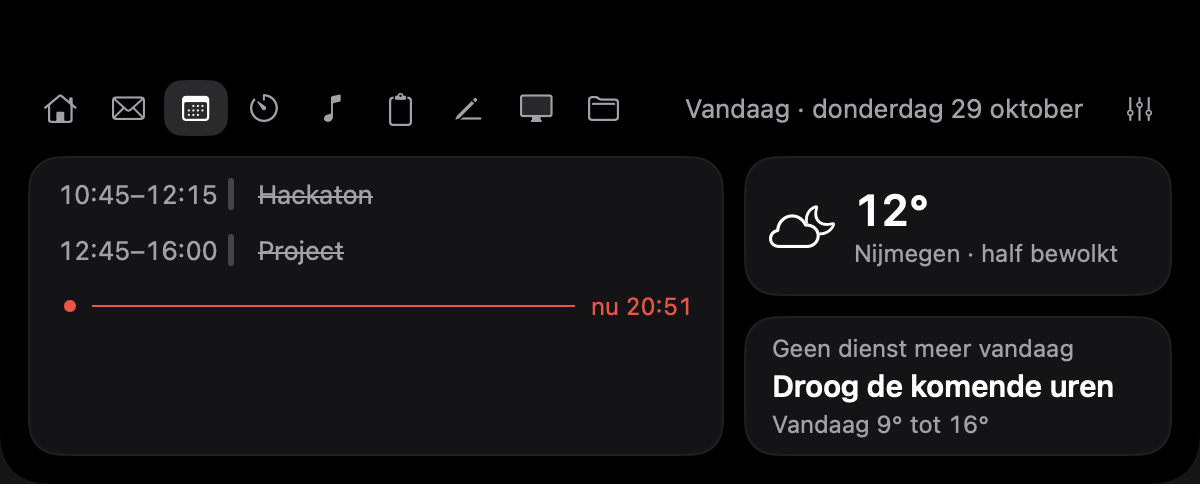
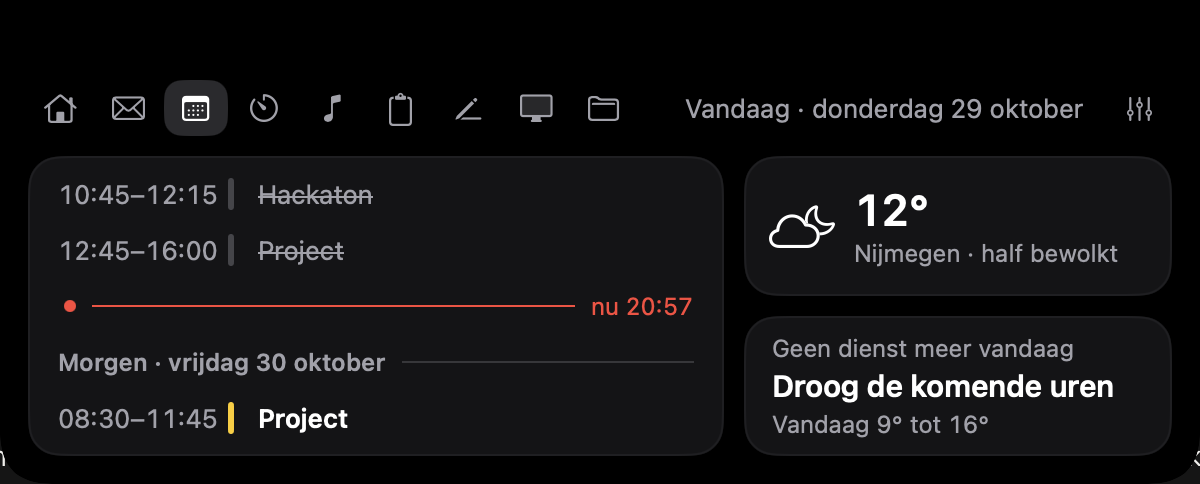
docs: describe the peek at tomorrow in the Agenda tab

diff --git a/docs/ARCHITECTURE.md b/docs/ARCHITECTURE.md
@@ -105,7 +105,7 @@ macOS Calendar (EventKit) ─► AgendaStore ─┐
 Open-Meteo (HTTPS, no key) ─► WeatherStore ┘
 ```
 
-- **`AgendaStore`** asks for full Calendar access the first time (`requestFullAccessToEvents`; the hardened runtime needs the `com.apple.security.personal-information.calendars` entitlement in `Wisp/Resources/wisp.entitlements`). It reads only while the tab is visible (`setVisible(_:)`): one `events(matching:)` for today over the calendars that aren't switched off, and a listener for `EKEventStoreChanged` that is removed again when the tab closes. Nothing is written to the calendar.
+- **`AgendaStore`** asks for full Calendar access the first time (`requestFullAccessToEvents`; the hardened runtime needs the `com.apple.security.personal-information.calendars` entitlement in `Wisp/Resources/wisp.entitlements`). It reads only while the tab is visible (`setVisible(_:)`): one `events(matching:)` for today and tomorrow (tomorrow is shown once nothing is left today) over the calendars that aren't switched off, and a listener for `EKEventStoreChanged` that is removed again when the tab closes. Nothing is written to the calendar.
 - An event is a **shift** when its title contains *dienst*, or, if chosen in Settings, when it is in a given calendar. Shifts get the `warning` colour; other events the colour of their calendar. *Vertrek voor je dienst* is the next shift's start minus the ride in minutes from Settings.
 - **`WeatherStore`** fetches the current temperature and WMO weather code, the hourly chance and amount of rain, and today's low and high from `api.open-meteo.com` for the place in Settings, at most once every 15 minutes and only when the tab opens. An hour counts as wet from a 50 % chance or 0.2 mm; that gives *Droog tot 22:00* or *Regen tot 15:00*. Settings looks up places with Open-Meteo's geocoding API.
 - The tab redraws once a minute (`TimelineView(.everyMinute)`) for the *nu* line and the countdowns, and only exists while it is open.

diff --git a/docs/SPEC.md b/docs/SPEC.md
@@ -30,7 +30,7 @@ Rechts: **Instellingen** (open het Settings-venster).
 - Links: tijdlijn van vandaag. Afgelopen items doorgestreept/grijs, een rode **"nu"-lijn** met tijd, komende items met gekleurd streepje (dienst = oranje) en "over Xu Xm".
 - Rechts: **weer** in Nijmegen (temperatuur + omschrijving) en een **vertrek-kaart** ("Vertrek voor je dienst 16:25 · 22 min fietsen · droog tot 22:00"). Weer via Open-Meteo (gratis, geen key) of WeatherKit.
 
-> **Stand van zaken:** gebouwd. EventKit en Open-Meteo. Een dienst is een afspraak met "dienst" in de titel, of (instelbaar) alles in één agenda. De fietstijd is een vast aantal minuten in Settings: een route berekenen zou je adres naar een kaartdienst sturen. De plaats voor het weer is in Settings te kiezen (standaard Nijmegen).
+> **Stand van zaken:** gebouwd. EventKit en Open-Meteo. Een dienst is een afspraak met "dienst" in de titel, of (instelbaar) alles in één agenda. De fietstijd is een vast aantal minuten in Settings: een route berekenen zou je adres naar een kaartdienst sturen. De plaats voor het weer is in Settings te kiezen (standaard Nijmegen). Staat er vandaag niets meer, dan toont de tijdlijn onder de nu-lijn alvast de eerste twee afspraken van morgen, onder *Morgen · vrijdag 30 oktober*.
 
 ### Focus-timer
 - Ring met aftellende tijd, knoppen **Start/Pauze** en **Reset**, duur-keuze **25 / 50 / 90 min**.

diff --git a/docs/DESIGN.md b/docs/DESIGN.md
@@ -84,7 +84,8 @@ Three cards in the fixed 150 pt area (board 3):
 States the board doesn't show, built in the style of the other tabs and open to a design:
 
 - No Calendar access yet / refused: the calendar icon, a short line and *Toegang geven* or *Open Systeeminstellingen*, like Mail's empty states.
-- Nothing today: *Niets gepland vandaag.*
+- Nothing left today: below the *nu* line a header *Morgen · vrijdag 30 oktober* (12 pt semibold, grey, with a thin grey rule) and tomorrow's first two timed events (or its all-day events when nothing is timed), in the normal row style without a countdown.
+- Nothing today or tomorrow: *Niets gepland vandaag.*
 - No shift left today: the departure card reads *Geen dienst meer vandaag*, the rain line, and today's low and high.
 - Leaving time passed but the shift hasn't started: *Nu · 22 min fietsen*.
 - All-day events sit at the top as *hele dag*.

diff --git a/CHANGELOG.md b/CHANGELOG.md
@@ -2,6 +2,7 @@
 
 ## Unreleased
 
+- Agenda: once nothing is left today, the timeline shows tomorrow's first two events under *Morgen*
 - Agenda & weather tab: today's timeline from the macOS Calendar app with a *nu* line and a countdown, the weather from Open-Meteo, and when to leave for your next shift (board 3); Settings → Agenda & weer for calendars, shifts, the ride and the place
 - Music: a live spectrum of what plays (24 bands, bass/mid/treble mix, loudness), the output quality, a one-time permission card, and states for paused and nothing playing; a real mini spectrum on the closed notch, which stays greyed for a minute after a pause (boards 9.1–9.6)
 - The playing app above the song title, and *Open Spotify* when nothing plays
